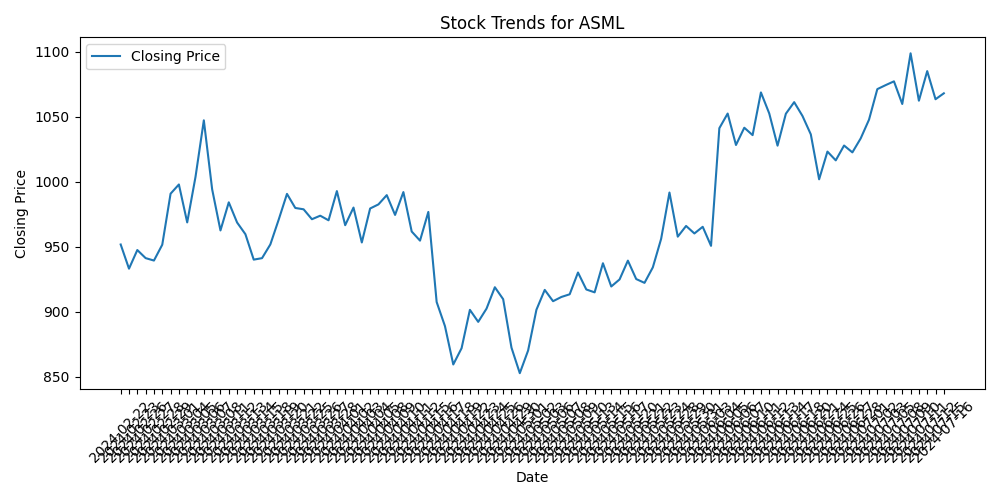
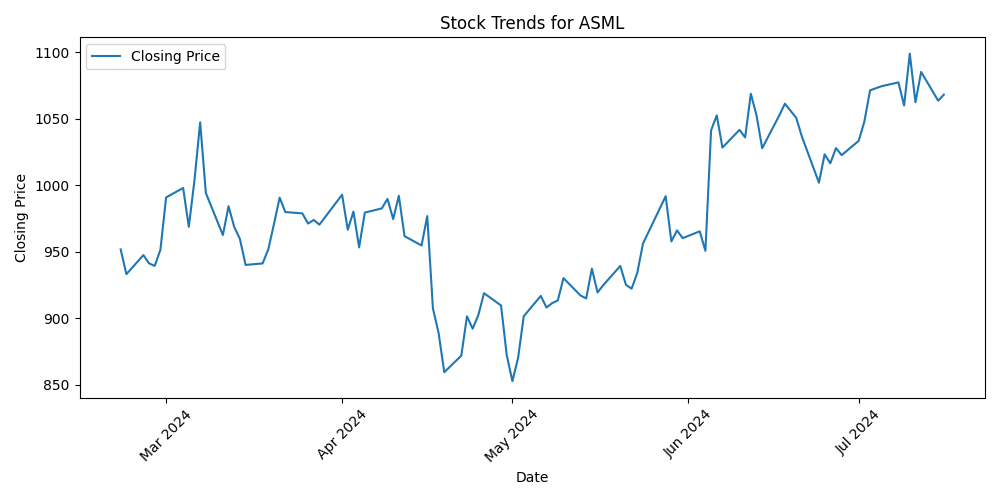
Updated dates shown in graph

diff --git a/chatbotapp/views.py b/chatbotapp/views.py
@@ -1,8 +1,8 @@
 import os
 import requests
 import matplotlib
-matplotlib.use('Agg')  # Use the 'Agg' backend for non-interactive plotting
 import matplotlib.pyplot as plt
+from datetime import datetime, timedelta
 from django.conf import settings
 from django.contrib.auth.decorators import login_required
 from django.http import JsonResponse
@@ -14,22 +14,10 @@ from django.shortcuts import get_object_or_404
 from chatbot import settings
 
 # Create your views here.
-
+matplotlib.use('Agg')
 
 def home(request):
     return render(request, "home.html")
-
-def add_stock(request):
-    if request.method == "POST":
-        form = StockForm(request.POST)
-        if form.is_valid():
-            stock_tag = form.cleaned_data.get('stock_tag')
-            Stock.objects.create(user=request.user, stock_tag=stock_tag)
-            messages.success(request, f"Stock {stock_tag} added to your portfolio!")
-            return redirect('add_stock')
-    else:
-        form = StockForm()
-    return render(request, 'add_stock.html', {'form': form})
 
 @login_required
 def your_stocks(request):
@@ -56,14 +44,24 @@ def generate_stock_graph(stock_tag):
     time_series = data.get('Time Series (Daily)', {})
     dates = list(time_series.keys())
     dates.sort()
-    closing_prices = [float(time_series[date]['4. close']) for date in dates]
+
+    dates = [datetime.strptime(date, '%Y-%m-%d') for date in dates]
+
+    one_year_ago = datetime.now() - timedelta(days=365)
+    filtered_dates = [date for date in dates if date > one_year_ago]
+
+    closing_prices = [float(time_series[date.strftime('%Y-%m-%d')]['4. close']) for date in filtered_dates]
 
     plt.figure(figsize=(10, 5))
-    plt.plot(dates, closing_prices, label='Closing Price')
+    plt.plot(filtered_dates, closing_prices, label='Closing Price')
     plt.title(f'Stock Trends for {stock_tag}')
     plt.xlabel('Date')
     plt.ylabel('Closing Price')
     plt.xticks(rotation=45)
+    
+    plt.gca().xaxis.set_major_formatter(plt.matplotlib.dates.DateFormatter('%b %Y'))
+    plt.gca().xaxis.set_major_locator(plt.matplotlib.dates.MonthLocator())
+    
     plt.legend()
     plt.tight_layout()
 
@@ -76,7 +74,7 @@ def generate_stock_graph(stock_tag):
     plt.close()
 
     stock = Stock.objects.filter(stock_tag=stock_tag).order_by('-added_at').first()
-    stock.graph_path = graph_path
+    stock.graph_path = f'{stock_tag}.png'
     stock.save()
 
 @login_required
